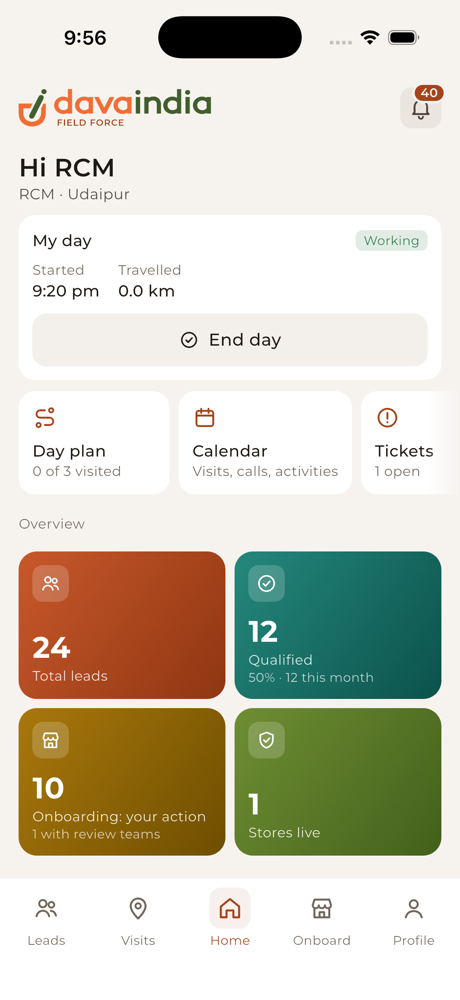
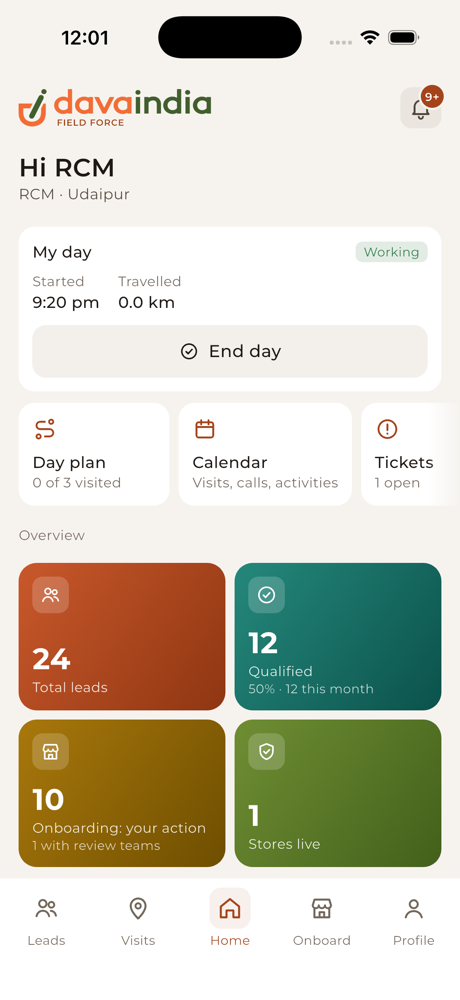
Make the alert count badge a circle

diff --git a/lib/features/home/home_screen.dart b/lib/features/home/home_screen.dart
@@ -140,19 +140,24 @@ class _Bell extends StatelessWidget {
             right: -4,
             top: 2,
             child: IgnorePointer(
+              // A fixed circle; past 9 it reads "9+" so the badge never stretches into a pill.
               child: Container(
-                constraints: const BoxConstraints(minWidth: 18),
-                height: 18,
-                padding: const EdgeInsets.symmetric(horizontal: 5),
+                width: 24,
+                height: 24,
                 alignment: Alignment.center,
                 decoration: BoxDecoration(
                   color: c.primary,
-                  borderRadius: BorderRadius.circular(9),
+                  shape: BoxShape.circle,
                   border: Border.all(color: c.page, width: 2),
                 ),
                 child: Text(
-                  unread > 99 ? '99+' : '$unread',
-                  style: context.text.caption.copyWith(color: c.onPrimary, fontWeight: FontWeight.w600, height: 1),
+                  unread > 9 ? '9+' : '$unread',
+                  style: context.text.caption.copyWith(
+                    color: c.onPrimary,
+                    fontSize: 10,
+                    fontWeight: FontWeight.w600,
+                    height: 1,
+                  ),
                 ),
               ),
             ),
